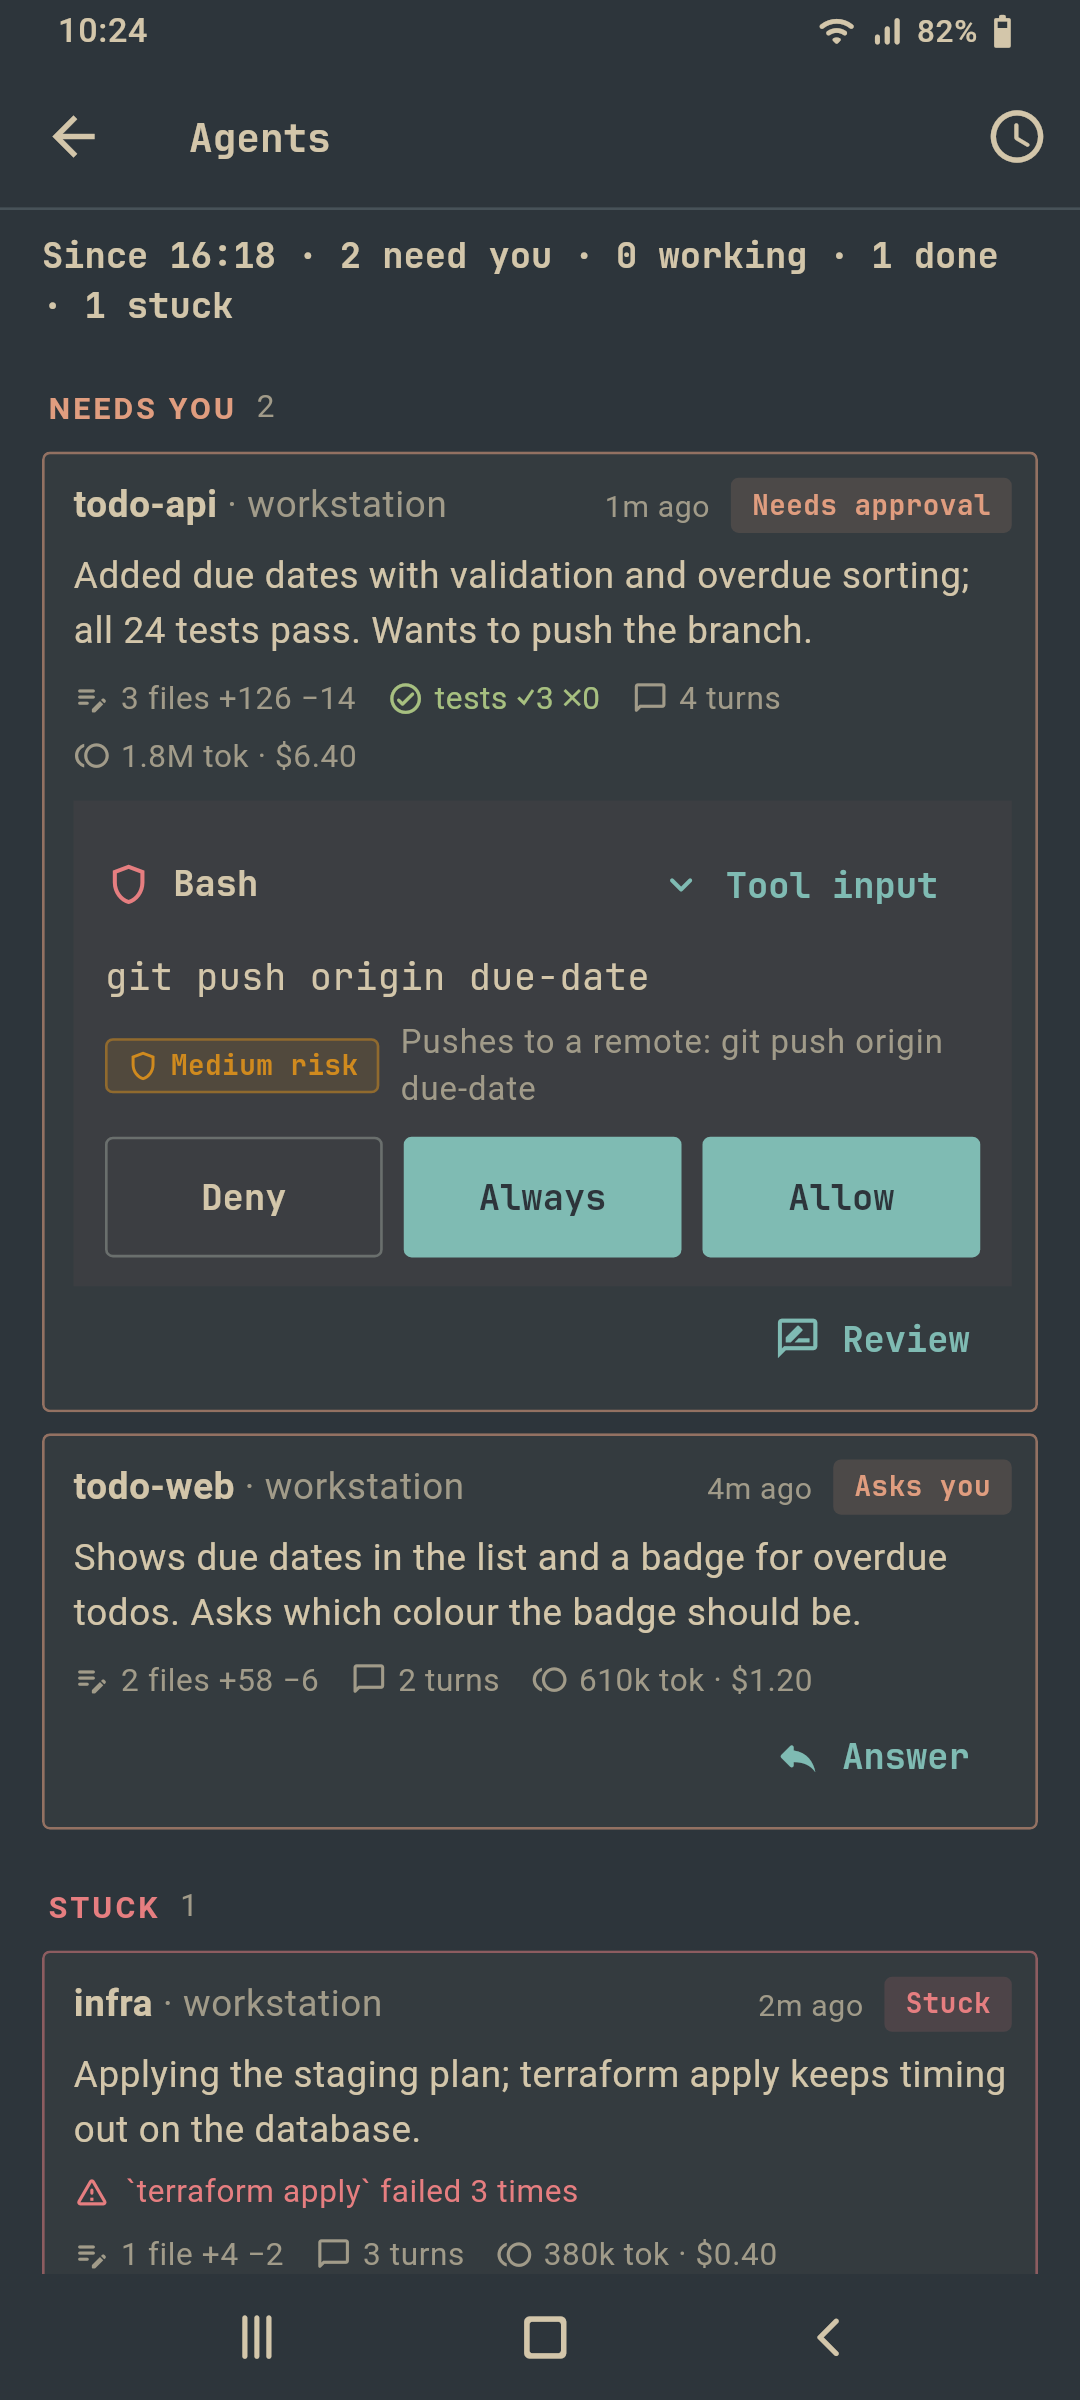
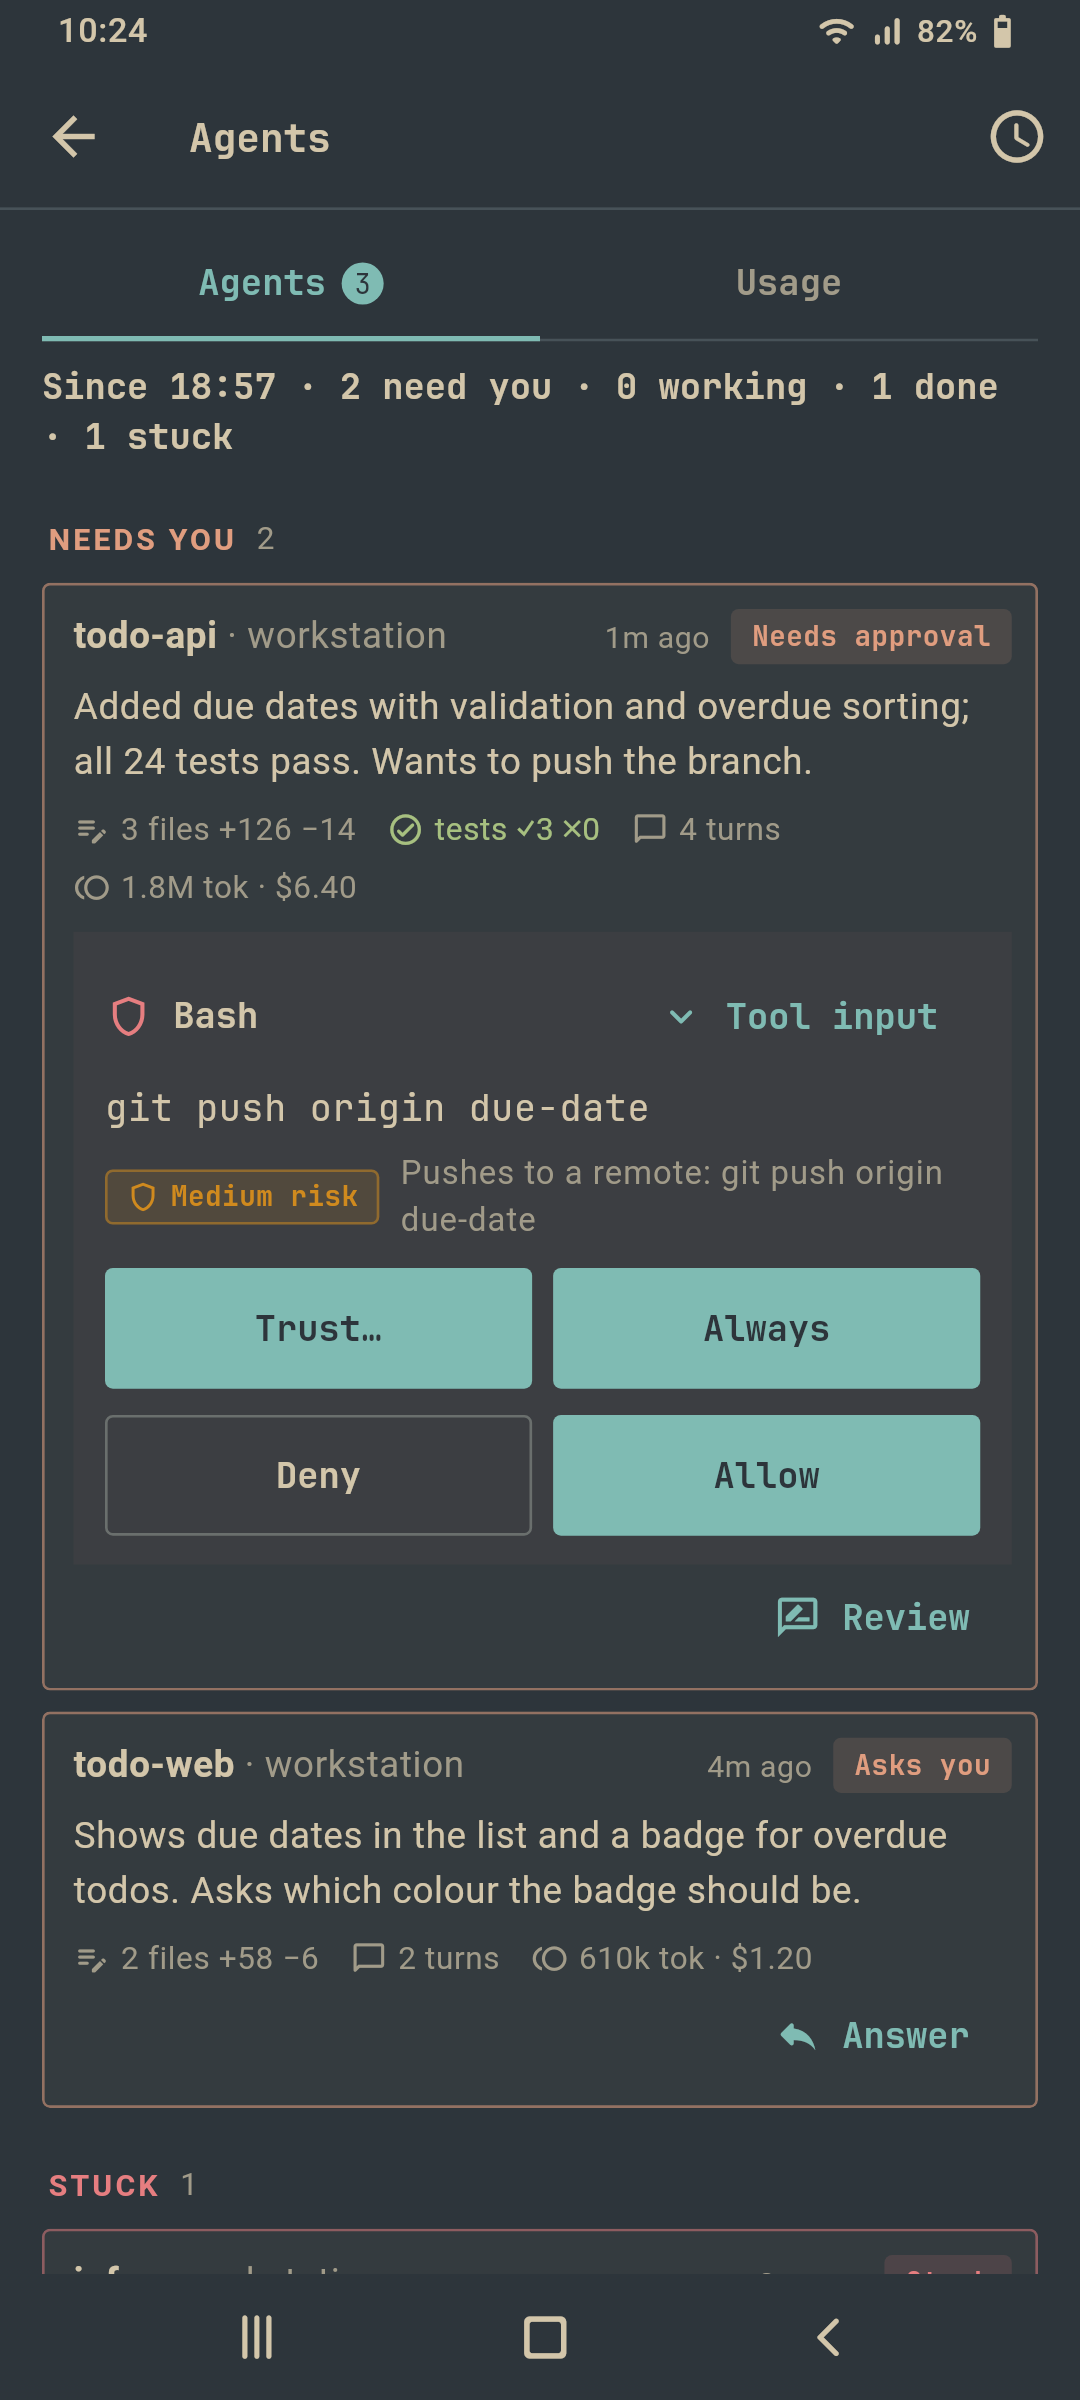
docs(agents): README and docs for the one Agents screen; re-render shots 04 and 35 (CON-109)

diff --git a/test/screenshots/readme_screenshots_test.dart b/test/screenshots/readme_screenshots_test.dart
@@ -854,9 +854,13 @@ void main() {
 
     if (inbox) {
       final context = tester.element(find.byType(TerminalPage));
+      // The demo machines answer `status` only: cards from the monitor.
+      final digest = monitorOnlyDigest();
+      addTearDown(digest.dispose);
       unawaited(
         showAgentsSheet(
           context: context,
+          controller: digest,
           attention: agentAttention,
           onOpenTerminal: (_, _) {},
           onOpenChat: (_, _) {},

diff --git a/README.md b/README.md
@@ -115,13 +115,19 @@ Older previews, one line each (full notes are on the
 - **Read aloud**, its **length** (Brief, Full or a Claude summary) and
   **tool activity** in Chat View (Show all, Collapsed or Hidden), from the
   ⋮ menu or Settings. While a reply is read, the ⋮ shows a sound wave.
-- **Agents dashboard**: since your last look, each agent's facts (files,
-  lines, tests, failed commands, tokens and cost), stuck flags, and a Claude
-  summary made only when you open it (companion 0.9). Tap a card to open
-  it where its sessions open (Chat View or the terminal, per your setting),
-  long-press for the other; an agent without Chat View opens its terminal.
-  A card carries its approvals and at most one more button: Answer for a
-  question, or Review.
+- **One Agents screen**, the heart-monitor button with the count of agents
+  waiting on you: a page from home, a sheet from the terminal, the right
+  panel on a desktop. Its Agents tab shows, since your last look, each
+  agent's facts (files, lines, tests, failed commands, tokens, cost and
+  context), stuck flags, and a Claude summary made only when you open it
+  (companion 0.9), for every monitored machine (Herdr-monitored ones show
+  states and messages). Tap a card to open it where its sessions open (Chat
+  View or the terminal, per your setting), long-press for the other; an
+  agent without Chat View opens its terminal. A card carries its approvals
+  and at most one more button: Answer for a question, or Review. Swipe a
+  card right to mute its alerts, left to hide a finished one until it
+  changes (right-click on a desktop). The Usage tab has the limits, tokens
+  and each session's context, and every machine's monitor status.
 - **Review mode and undo** (companion 1.0): every turn is snapshotted;
   review it file by file, reject one file, send feedback, or undo the turn.
 - **Other agents**: Codex and OpenCode work like Claude Code (dashboard,
@@ -130,8 +136,8 @@ Older previews, one line each (full notes are on the
   terminal*. Each is named as itself in chat, approvals and notifications.
 - **Message agents** from Chat View: send to one or several, ask and wait for
   the answer, and relay it back.
-- **Inbox** of every agent across your machines, with permission requests you
-  answer with Allow, Deny or Always, and a Usage tab. A prompt or question
+- **Approvals** from every agent across your machines, on its Agents card:
+  Allow, Deny or Always. A prompt or question
   waits for you for 15 minutes (companion setting `permission-wait`); if
   you answer in the terminal the wait ends, and after it runs out the card
   stays and your answer is typed into Claude Code's own dialog.
@@ -141,8 +147,8 @@ Older previews, one line each (full notes are on the
   session ends, in one session, one repo or all repos; "Always" saves the
   same kind of rule until revoked. The companion answers matching requests by
   itself, even with the phone offline, and never answers a high-risk one.
-  "Approve all N safe" clears the low-risk ones in one go, the inbox lists
-  what was auto-approved in the last 24 h with "Undo trust", and Settings ›
+  "Approve all N safe" clears the low-risk ones in one go, the Agents screen
+  lists what was auto-approved in the last 24 h with "Undo trust", and Settings ›
   Agents › Approval rules lists and edits each machine's rules.
 - **Usage** (companion 0.6 or newer): Claude's 5-hour and weekly limits,
   tokens and an estimated cost per day, machine, project and model, Codex
@@ -223,7 +229,7 @@ tmux.
 - **Gestures**: swipe for tabs or windows, two fingers sideways for panes, two
   fingers up/down for workspaces (Herdr) or scrollback (tmux), pinch for the
   font size. Every mapping is configurable.
-- **Deep links** from notifications, the home screen and the inbox open an
+- **Deep links** from notifications, the home screen and the Agents screen open an
   agent at its exact workspace, tab and pane, in Herdr or tmux.
 - **The host's own keybindings**: Herdr keys are read from the machine's
   `~/.config/herdr/config.toml`, falling back to Herdr's defaults.
@@ -312,7 +318,7 @@ tmux.
 - **Desktop shell** on desktops and tablets: a sidebar tree of machines,
   workspaces, tabs and agents with a Needs you group, pins and groups; up
   to 4 splits mixing terminal, Chat View, file, diff and preview; a
-  dashboard home; and a right panel for the inbox, preview and usage.
+  dashboard home; and a right panel for the Agents screen, preview and usage.
 - A **command palette**, saved **layouts** and presets, drag to place a pane,
   and pages that open as dialogs with Enter, Esc and Ctrl+S; right-click
   menus on tiles, tabs, terminal, agents and files.
@@ -355,7 +361,7 @@ Rendered from the app's own widgets with demo data by
   <tr>
     <td align="center"><img src="docs/screenshots/11-talk-mode.png" width="200" alt="Talk mode sending a spoken reply"><br><sub>Talk mode: a spoken reply, sent after a pause</sub></td>
     <td align="center"><img src="docs/screenshots/03-chat-view.png" width="200" alt="Chat View with an approval"><br><sub>Chat View with an approval</sub></td>
-    <td align="center"><img src="docs/screenshots/04-agents-inbox.png" width="200" alt="Agents inbox"><br><sub>Inbox: approvals, then working and done agents</sub></td>
+    <td align="center"><img src="docs/screenshots/04-agents-inbox.png" width="200" alt="The Agents sheet over the terminal"><br><sub>Agents from the terminal: approvals, then working and done agents</sub></td>
     <td align="center"><img src="docs/screenshots/14-live-preview-ready.png" width="200" alt="Preview ready chip over a Vite dev server"><br><sub>Live preview finds a new dev server</sub></td>
   </tr>
   <tr>
@@ -384,7 +390,7 @@ Rendered from the app's own widgets with demo data by
   </tr>
   <tr>
     <td align="center"><img src="docs/screenshots/34-chat-peer-messages.png" width="200" alt="Chat View with a message from another session and a finished row"><br><sub>Chat View: other sessions and teammates</sub></td>
-    <td align="center"><img src="docs/screenshots/35-agents-dashboard.png" width="200" alt="Agents dashboard: needs you, stuck and done cards with facts and summaries"><br><sub>Agents dashboard: facts and summaries</sub></td>
+    <td align="center"><img src="docs/screenshots/35-agents-dashboard.png" width="200" alt="Agents dashboard: needs you, stuck and done cards with facts and summaries"><br><sub>Agents from home: facts and summaries</sub></td>
     <td align="center"><img src="docs/screenshots/36-chat-pending-bubble.png" width="200" alt="Chat View with a just-sent message as a pending bubble"><br><sub>A sent message shows at once</sub></td>
     <td align="center"><img src="docs/screenshots/37-review-cards.png" width="200" alt="Review mode: a file card with a coloured diff, accept and reject"><br><sub>Review mode: one card per file</sub></td>
   </tr>

diff --git a/docs/desktop.md b/docs/desktop.md
@@ -170,8 +170,10 @@ narrower than 900 dp, keep the phone layout.
   the app does not create worktrees yet, so it never fires. The
   terminal's menu offers *Quick actions* on phones too, when the session's
   project has some.
-- **Right panel.** The Agents button (the pulse icon) opens the agent
-  inbox with approvals on the right; the globe opens the live preview of
+- **Right panel.** The Agents button (the heart monitor, with the count
+  of agents waiting on you) opens the Agents screen on the right, the same
+  one phones open from home and the terminal, with its Agents and Usage
+  tabs; the globe opens the live preview of
   the focused session. Drag its edge to resize it.
 - Sidebar width, collapsed state, groups, pins, order, the split layout
   and the unread markers are kept per device (secure storage, key
@@ -241,7 +243,7 @@ narrower than 900 dp, keep the phone layout.
 - **Menus and sheets.** Nothing slides up from the bottom on desktop.
   Action menus open as popovers at the click. Pickers and forms, such as
   the connect picker, open as centred dialogs. The Herdr and tmux
-  navigators slide in from the right; the agent inbox opens in the
+  navigators slide in from the right; the Agents screen opens in the
   shell's right panel. The quick switcher
   and snippets open as a command palette at the top. Esc closes any of
   them, and the first field has the focus. Phones keep the bottom sheets.
@@ -313,7 +315,7 @@ saved machine over SSH, as before.
 | Feature | Linux | Windows | macOS | Why |
 |---|---|---|---|---|
 | SSH, Mosh, SFTP, tmux / Herdr | yes | yes | yes | Pure Dart (dartssh2, dart_mosh over UDP) |
-| Chat View, agent inbox, themes | yes | yes | yes | Flutter UI |
+| Chat View, Agents screen, themes | yes | yes | yes | Flutter UI |
 | Live preview (port forward) | browser | browser | embedded | webview_flutter has no official Linux/Windows implementation. The forward runs and *Open in browser* opens it |
 | HTML files in the SFTP viewer | source | source | rendered | Same web view gap |
 | PDF viewer | yes | yes | yes | pdfrx (PDFium, fetched at build time) |
@@ -363,8 +365,8 @@ Gating lives in `lib/core/platform_features.dart`. Every flag reads
   (`pushAdaptivePage`, `lib/core/presentation/adaptive_page.dart`);
   phones push them full screen as before.
 - Right-click opens a row's actions everywhere: sidebar rows and groups,
-  the collapsed rail, tabs, dashboard tiles, agent cards, inbox rows,
-  files, multiplexer tabs and the terminal (Copy, Paste, Select all).
+  the collapsed rail, tabs, dashboard tiles, agent cards (Chat, Terminal,
+  Review, Mute, Hide), files, multiplexer tabs and the terminal (Copy, Paste, Select all).
 - Hover is visible, clicks show no ripple and scrollbars are wide enough
   to grab (desktop theme only).
 - The window title follows the focused session ("api · omarchy —

diff --git a/docs/notifications.md b/docs/notifications.md
@@ -125,7 +125,9 @@ anywhere, the agent moved on, or it ended).
 
 ### Mute
 
-Long-press an agent in the Agents panel and choose **Mute notifications**.
+Swipe an agent's card to the right on the Agents screen (on a desktop,
+right-click it and choose **Mute notifications**); swipe again to unmute.
+A small bell-off icon marks a muted card.
 A muted agent gets no alerts on this device, though the ongoing status
 still lists it. Settings shows how many agents are muted and has an
 **Unmute all** button. Mutes are keyed by machine and agent session, and
